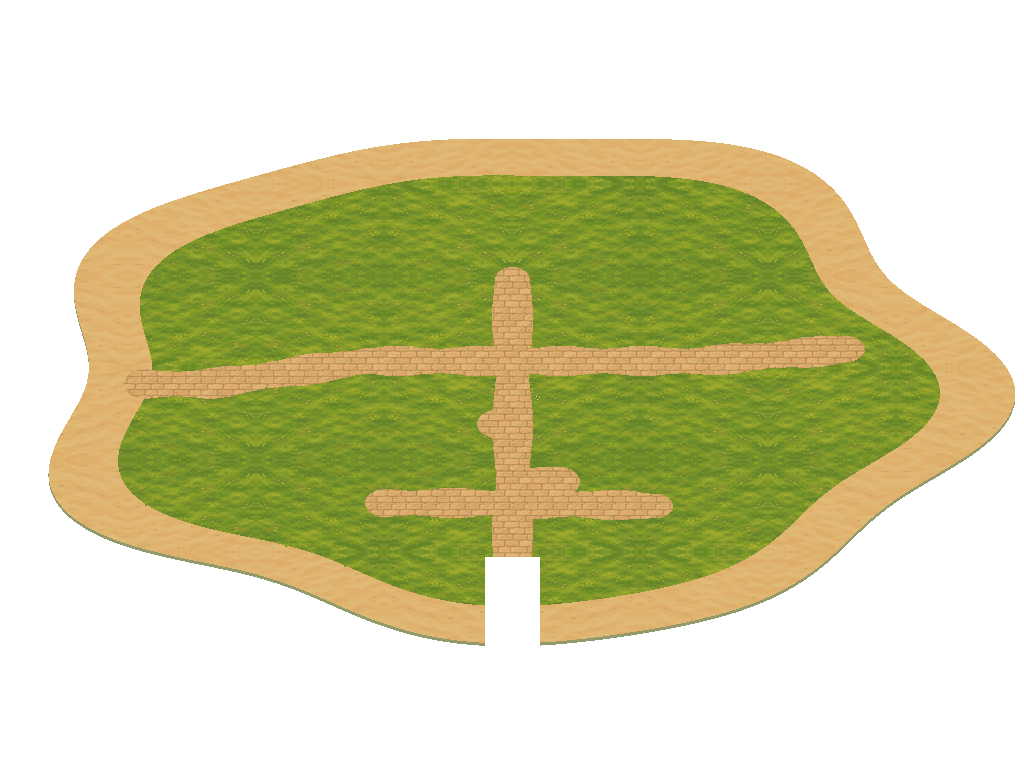
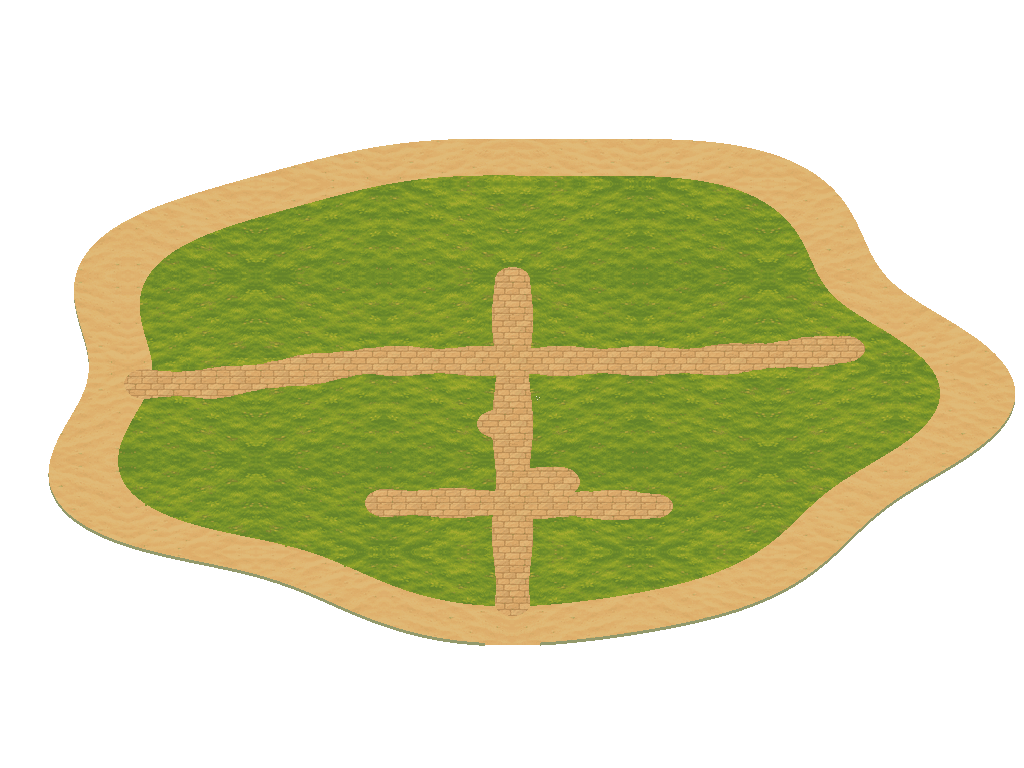
Keep the natural shoreline behind the Harbor pier

Changed region(s): [[0.4688, 0.7188, 0.5312, 0.8438]]

diff --git a/frontend/src/world/places/surfaces.js b/frontend/src/world/places/surfaces.js
@@ -1,4 +1,4 @@
-// The offline backgrounds and the movement controller share exactly this coastline.
+// Offline backgrounds and movement share the natural coast. Piers add walkable deck above it.
 export const surfaces = {
   saltreach_harbor: { rx: 29, rz: 22, seed: 1, docks: [[-1.7, 1.7, 15, 26.5]] },
   home_islet: { rx: 20, rz: 22, seed: 3 },
@@ -7,12 +7,17 @@ export const surfaces = {
   the_teeth: { rx: 22, rz: 22, seed: 9 },
   gulls_rest: { rx: 19, rz: 20, seed: 11 },
 };
-export function surfaceClass(id, x, z) {
-  const s = surfaces[id]; if (!s) return 0;
-  if (s.docks?.some(([a, b, c, d]) => x >= a && x <= b && z >= c && z <= d)) return 3;
+function coastClass(s, x, z) {
+  if (!s) return 0;
   const angle = Math.atan2(z / s.rz, x / s.rx);
   const edge = 1 + .055 * Math.sin(angle * 5 + s.seed) + .035 * Math.cos(angle * 7);
   const r = Math.hypot(x / s.rx, z / s.rz) / edge;
   return r < .85 ? 2 : r < 1 ? 1 : 0;
+}
+export function naturalSurfaceClass(id, x, z) { return coastClass(surfaces[id], x, z); }
+export function surfaceClass(id, x, z) {
+  const s = surfaces[id];
+  if (s?.docks?.some(([a, b, c, d]) => x >= a && x <= b && z >= c && z <= d)) return 3;
+  return coastClass(s, x, z);
 }
 export const placeGround = id => (x, z) => surfaceClass(id, x, z) ? 1.03 : -1;

diff --git a/frontend/scripts/export-place-ground.js b/frontend/scripts/export-place-ground.js
@@ -1,7 +1,8 @@
 // Export shared movement masks for the offline native-pixel background authoring tool.
-import { surfaceClass } from '../src/world/places/surfaces.js';
+import { naturalSurfaceClass, surfaceClass } from '../src/world/places/surfaces.js';
 const pixels = Buffer.alloc(1024 * 768), id = process.argv[2];
+const classify = process.argv[3] === '--natural-coast' ? naturalSurfaceClass : surfaceClass;
 for (let y = 0; y < 768; y++) for (let x = 0; x < 1024; x++) {
-  pixels[y * 1024 + x] = surfaceClass(id, (x - 512) / 16, (y - 384) / (16 * .72));
+  pixels[y * 1024 + x] = classify(id, (x - 512) / 16, (y - 384) / (16 * .72));
 }
 process.stdout.write(pixels);

diff --git a/frontend/scripts/pixel_art/place_materials.py b/frontend/scripts/pixel_art/place_materials.py
@@ -1,5 +1,5 @@
 """Lay the original village materials into the existing regional ground colors."""
-from PIL import Image
+from PIL import Image, ImageChops
 
 REGIONAL_MATERIALS = {
     'lighthouse_isle': ('sand', .46),
@@ -31,22 +31,34 @@ def tile_surface(atlas, name, canvas_size):
     return surface
 
 
-def paint_region(image, root, place, palette):
+def color_mask(image, colors):
+    return Image.frombytes('L', image.size, bytes(255 if pixel in colors else 0 for pixel in image.getdata()))
+
+
+def paint_region(image, root, place, palette, additions=None):
     path_material, grass_strength = REGIONAL_MATERIALS[place]
     with Image.open(root / 'public' / 'village' / 'terrain-materials-v1.png') as source:
         atlas = source.convert('RGB')
     base = image.convert('RGB')
     output = base.copy()
+    extra_base = additions.convert('RGB') if additions else None
     for name, material, strength in (
         ('grass', 'grass', grass_strength), ('path', path_material, .55), ('sand', 'sand', .52),
     ):
         colors = set(palette[name])
-        mask = Image.frombytes('L', base.size, bytes(255 if pixel in colors else 0 for pixel in image.getdata()))
+        mask = color_mask(image, colors)
         texture = tile_surface(atlas, material, base.size)
         # Limit palette size per surface so the old regions still ship as small PNGs.
         styled = Image.blend(base, texture, strength).quantize(colors=72, dither=Image.Dither.NONE)
         output.paste(styled.convert('RGB'), mask=mask)
-    output.putalpha(image.getchannel('A'))
+        if extra_base:
+            # Use the established color palette without changing existing regional pixels.
+            extra = Image.blend(extra_base, texture, strength).quantize(palette=styled, dither=Image.Dither.NONE)
+            output.paste(extra.convert('RGB'), mask=color_mask(additions, colors))
+    alpha = image.getchannel('A')
+    if additions:
+        alpha = ImageChops.lighter(alpha, additions.getchannel('A'))
+    output.putalpha(alpha)
     return index_region(output)
 
 

diff --git a/frontend/scripts/pixel_art/place_ground.py b/frontend/scripts/pixel_art/place_ground.py
@@ -21,6 +21,13 @@ PATHS={
  'the_teeth': [[(0,14),(0,-8),(9,-9)],[(-8,9),(0,8),(8,1)],[(-5,-3),(0,-3)]],
  'gulls_rest': [[(0,13),(0,-5)]],
 }
+
+def land_color(surface, x, y, palette):
+    if surface == 1:
+        return SAND
+    tone = int((sin(x / 61) + cos(y / 53) + sin((x + y) / 89) + 3) / 2)
+    return palette[min(2, max(0, tone))]
+
 def ground(root,id):
     w,h=1024,768;classes=check_output(['node','scripts/export-place-ground.js',id],cwd=root)
     assert len(classes)==w*h
@@ -30,7 +37,7 @@ def ground(root,id):
     for y in range(h):
         for x in range(w):
             c=classes[y*w+x]
-            if c in [1,2]:p[x,y]=SAND if c==1 else pal[min(2,max(0,int((sin(x/61)+cos(y/53)+sin((x+y)/89)+3)/2)))]
+            if c in [1,2]:p[x,y]=land_color(c,x,y,pal)
     d=ImageDraw.Draw(im)
     for y in range(2,h-2):
         for x in range(2,w-2):
@@ -74,10 +81,22 @@ def ground(root,id):
         for dx,dy in [(0,0),(3,1),(1,3)][:2+i%2]:
             if classes[(y+dy)*w+x+dx]==2 and not mp[x+dx,y+dy]:
                 p[x+dx,y+dy+1]=(92,120,70,255);p[x+dx,y+dy]=(236,226,196,255) if i%3 else (214,160,160,255)
+    additions = None
+    if id == 'saltreach_harbor':
+        # The deck is a separate sprite. Restore only natural land that the dock cut out.
+        natural = check_output(['node', 'scripts/export-place-ground.js', id, '--natural-coast'], cwd=root)
+        additions = Image.new('RGBA', im.size)
+        below_deck = additions.load()
+        for index, (surface, coast) in enumerate(zip(classes, natural)):
+            if surface != 3 or not coast:
+                continue
+            y, x = divmod(index, w)
+            if not p[x, y][3]:
+                below_deck[x, y] = PATH_PALETTE[0] if mp[x, y] else land_color(coast, x, y, pal)
     if id in REGIONAL_MATERIALS:
         return paint_region(im, root, id, {
             'grass': (*pal, *GRASS_PATCHES, *GRASS_TUFTS),
             'path': PATH_PALETTE,
             'sand': (SAND,),
-        })
+        }, additions)
     return im
